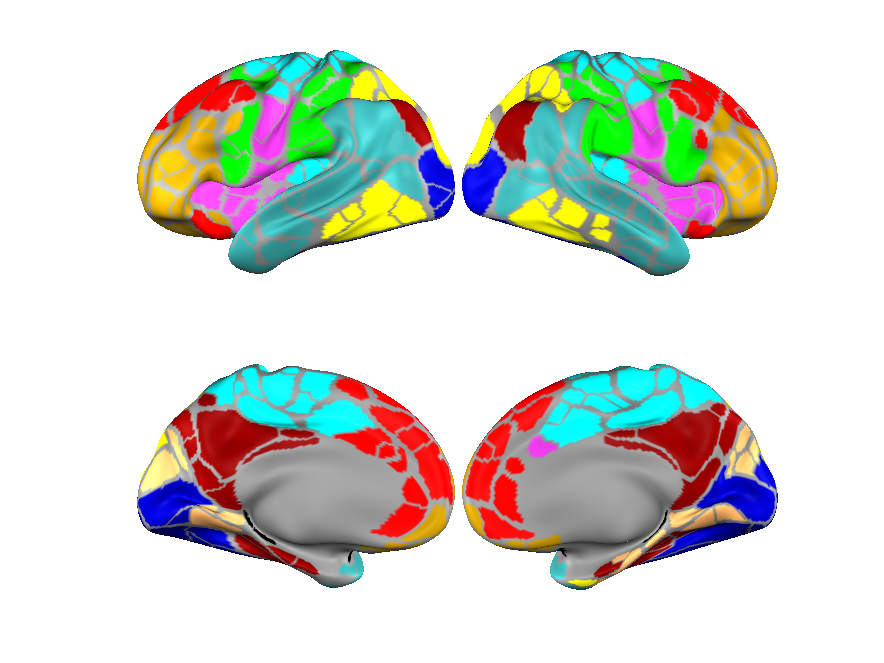
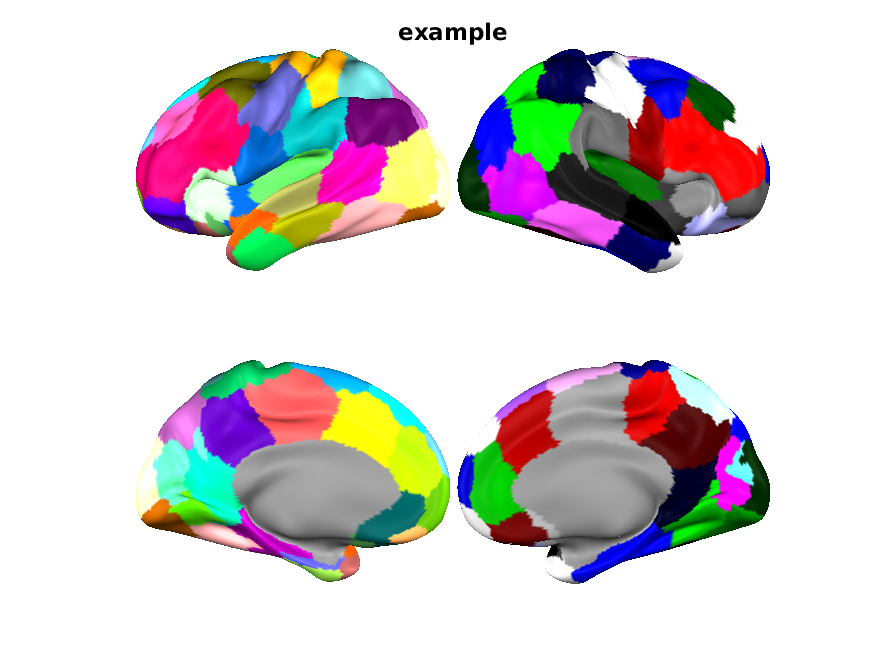
update example 3 and 4

Changed region(s): [[0.1543, 0.061, 0.8949, 0.4268], [0.1543, 0.5488, 0.8949, 0.9146], [0.432, 0.0305, 0.5863, 0.061]]

diff --git a/NLA visualizationfunctions/Example3_plot_Network_per_parcel.m b/NLA visualizationfunctions/Example3_plot_Network_per_parcel.m
@@ -2,19 +2,17 @@
 clear;
 addpath(genpath(pwd));
 
-load('/data/wheelock/data1/people/Ayoushman/WashU120_codes/washu120_clustering.mat')
-
 % load parcel file CtxL and CtxR with Left Hemisphere and Right Hemisphere
 % ROI assignments
 parcel_name = 'Gordon'
 load(['Parcels_',parcel_name,'.mat'],'Parcels');
 
-key = idk;%### % user input of nROIx1
-nNet = length(unique(key))
+
 % % load corresponding IM file
-% load('IM_11_BCP94.mat','IM');
+load('IM_Gordon_13nets_333Parcels.mat','IM');
 Parcel_Nets.CtxL = Parcels.CtxL;Parcel_Nets.CtxR = Parcels.CtxR;
-% [~,sortid] = sort(IM.order);key = IM.key(sortid,2);
+[~,sortid] = sort(IM.order);key = IM.key(sortid,2);
+nNet = length(unique(key))
 
 % find network assignments for each ROI
 for ii = 1:size(key,1)
@@ -27,7 +25,8 @@ Anat.CtxL = MNIl;Anat.CtxR = MNIr;
 clear MNIl MNIr
 Anat.CtxL.data=Parcel_Nets.CtxL; 
 Anat.CtxR.data=Parcel_Nets.CtxR;
-params.Cmap.P=linspecer(nNet);%IM.cMap;jet(nNet)
+% params.Cmap.P=linspecer(nNet);%IM.cMap;jet(nNet)
+params.Cmap.P=IM.cMap;
 params.TC=1;
 params.ctx='inf';         % also, 'std','inf','vinf'
 
@@ -41,4 +40,4 @@ params.fig_handle = ax;
 params.view='med';        % also, 'post','lat','med'
 PlotLRMeshes_mod(Anat.CtxL,Anat.CtxR, params);
 
-% print('Example3.png','-dpng');
+print('Example3.png','-dpng');
